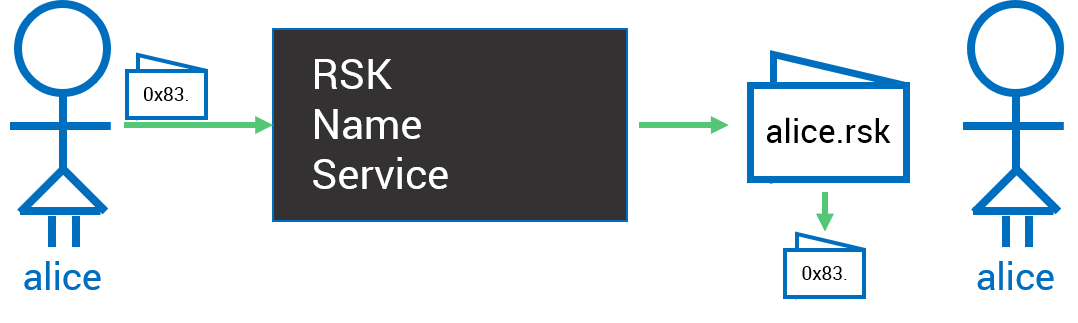
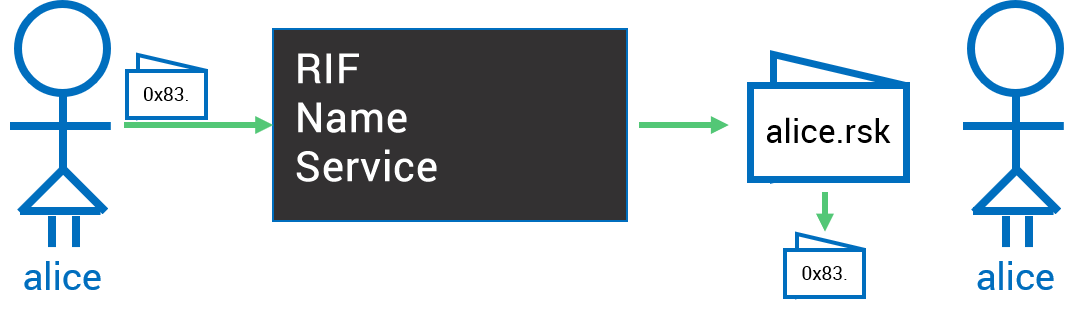
Update assets - RIF

Changed region(s): [[0.2755, 0.4644, 0.4286, 0.5882], [0.2755, 0.3096, 0.398, 0.4334], [0.2755, 0.1548, 0.3673, 0.2786]]

diff --git a/src/app/tabs/startAuction/components/MyCryptoModal.js b/src/app/tabs/startAuction/components/MyCryptoModal.js
@@ -9,7 +9,7 @@ export const MyCryptoModal = props => (
     </Modal.Header>
     <Modal.Body>
       <ol>
-        <li>Go to My Crypto contract interaction on your <a target='_blank' href='https://mycrypto.com/contracts/interact' className='modal-link'>browser</a> or native app.</li>
+        <li>Go to My Crypto contract interaction on your <a target='_blank' href='https://mycrypto.com/contracts/interact' className='modal-link' rel='noopener noreferrer'>browser</a> or native app.</li>
         <li>Select <b>RSK MainNet</b> network on the top right selector.</li>
         <li>Select <b>RNS Registrar</b> contract on <i>Existing Contract</i> selector.</li>
         <li>Access!</li>
@@ -21,7 +21,7 @@ export const MyCryptoModal = props => (
             <code>0x{sha3(props.name.split('.')[0])}</code>
         </li>
         <li>Choose your checkout method.</li>
-        <li>Check the gas according to <a href='https://stats.rsk.co/' target='_blank'>RSK stats</a>.</li>
+        <li>Check the gas according to <a href='https://stats.rsk.co/' target='_blank' rel='noopener noreferrer'>RSK stats</a>.</li>
         <li>Write!</li>
       </ol>
     </Modal.Body>

diff --git a/src/app/tabs/search/components/MyCryptoModal.js b/src/app/tabs/search/components/MyCryptoModal.js
@@ -10,7 +10,7 @@ export const MyCryptoModal = props => (
     </Modal.Header>
     <Modal.Body>
       <ol>
-        <li>Go to My Crypto contract interaction on your <a target='_blank' href='https://mycrypto.com/contracts/interact' className='modal-link'>browser</a> or native app.</li>
+        <li>Go to My Crypto contract interaction on your <a target='_blank' href='https://mycrypto.com/contracts/interact' rel='noopener noreferrer' className='modal-link'>browser</a> or native app.</li>
         <li>Select <b>RSK MainNet</b> network on the top right selector.</li>
         <li>Select <b>RNS Registrar</b> contract on <i>Existing Contract</i> selector.</li>
         <li>Access!</li>
